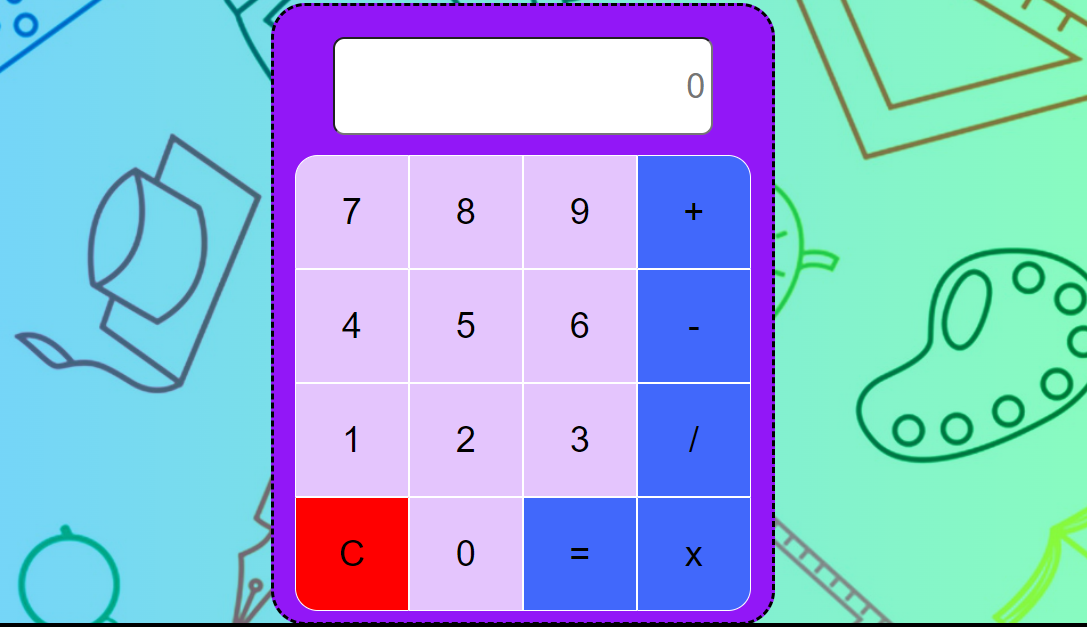
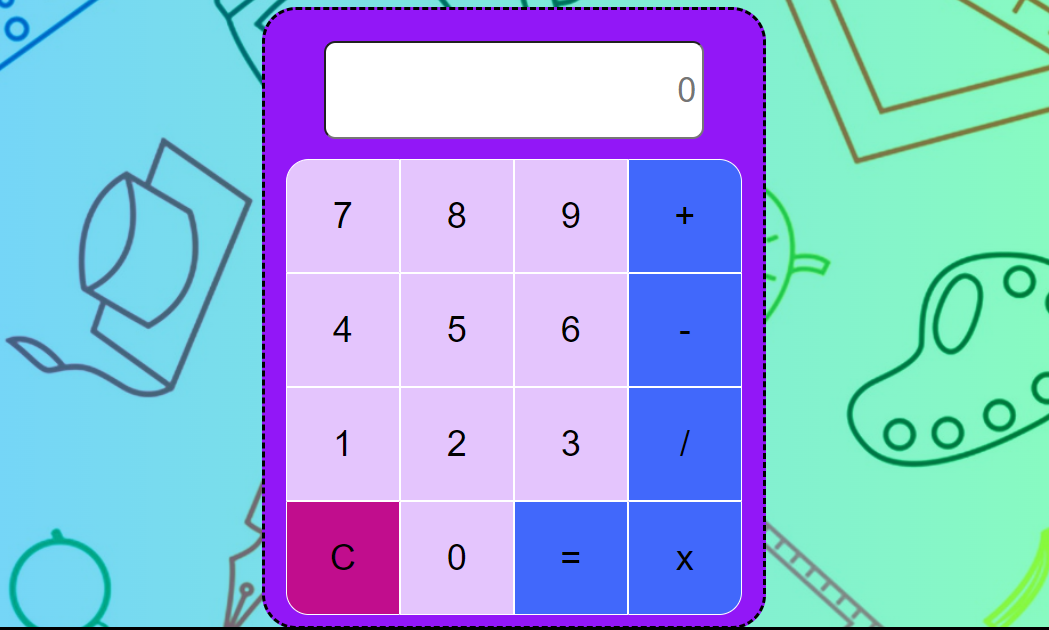
se modifico un poblema con el css

diff --git a/src/estilos.css b/src/estilos.css
@@ -43,7 +43,7 @@ main{
 }
 
 .calculadora-grilla>button.data-delete{
-    background-color:#ff0000 ;
+    background-color:#ff00006d ;
     border-radius: 0 0 0 20px;
     -webkit-border-radius: 0 0 0 20px;
     -moz-border-radius: 0 0 0 20px;
